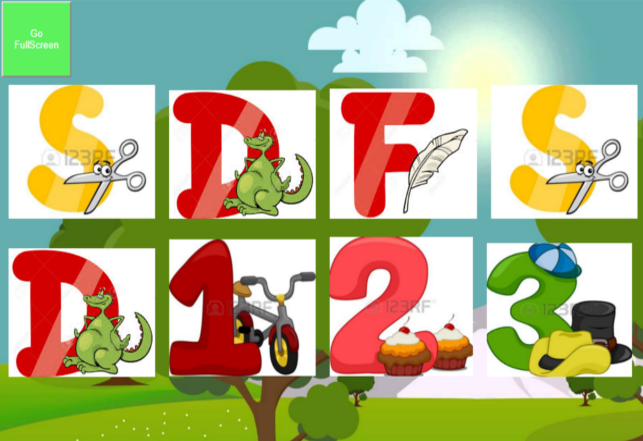
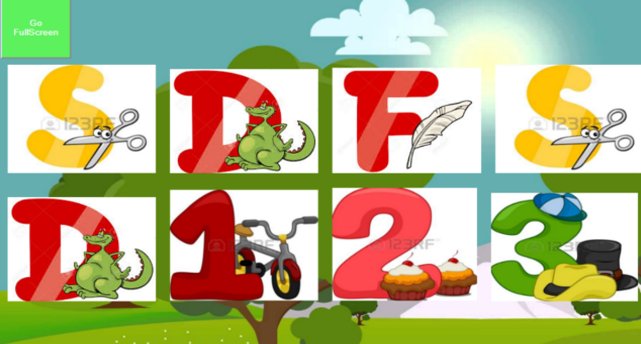
fix thumbnail images

diff --git a/index.html b/index.html
@@ -137,8 +137,8 @@ xmlns:fb="http://ogp.me/ns/fb#">
     <div class="call-to-action bg-dark"></div>
 
     <section class="p-0" id="portfolio">
-      <div class="container-fluid">
-        <div class="row no-gutter">
+      <div class="container-fluid p-0">
+        <div class="row no-gutters pop-up gallery">
           <div class="col-lg-4 col-sm-6">
             <a class="portfolio-box" href="#" >
               <img class="img-fluid" src="img/portfolio/thumbnails/comingsoon.png" alt="">
